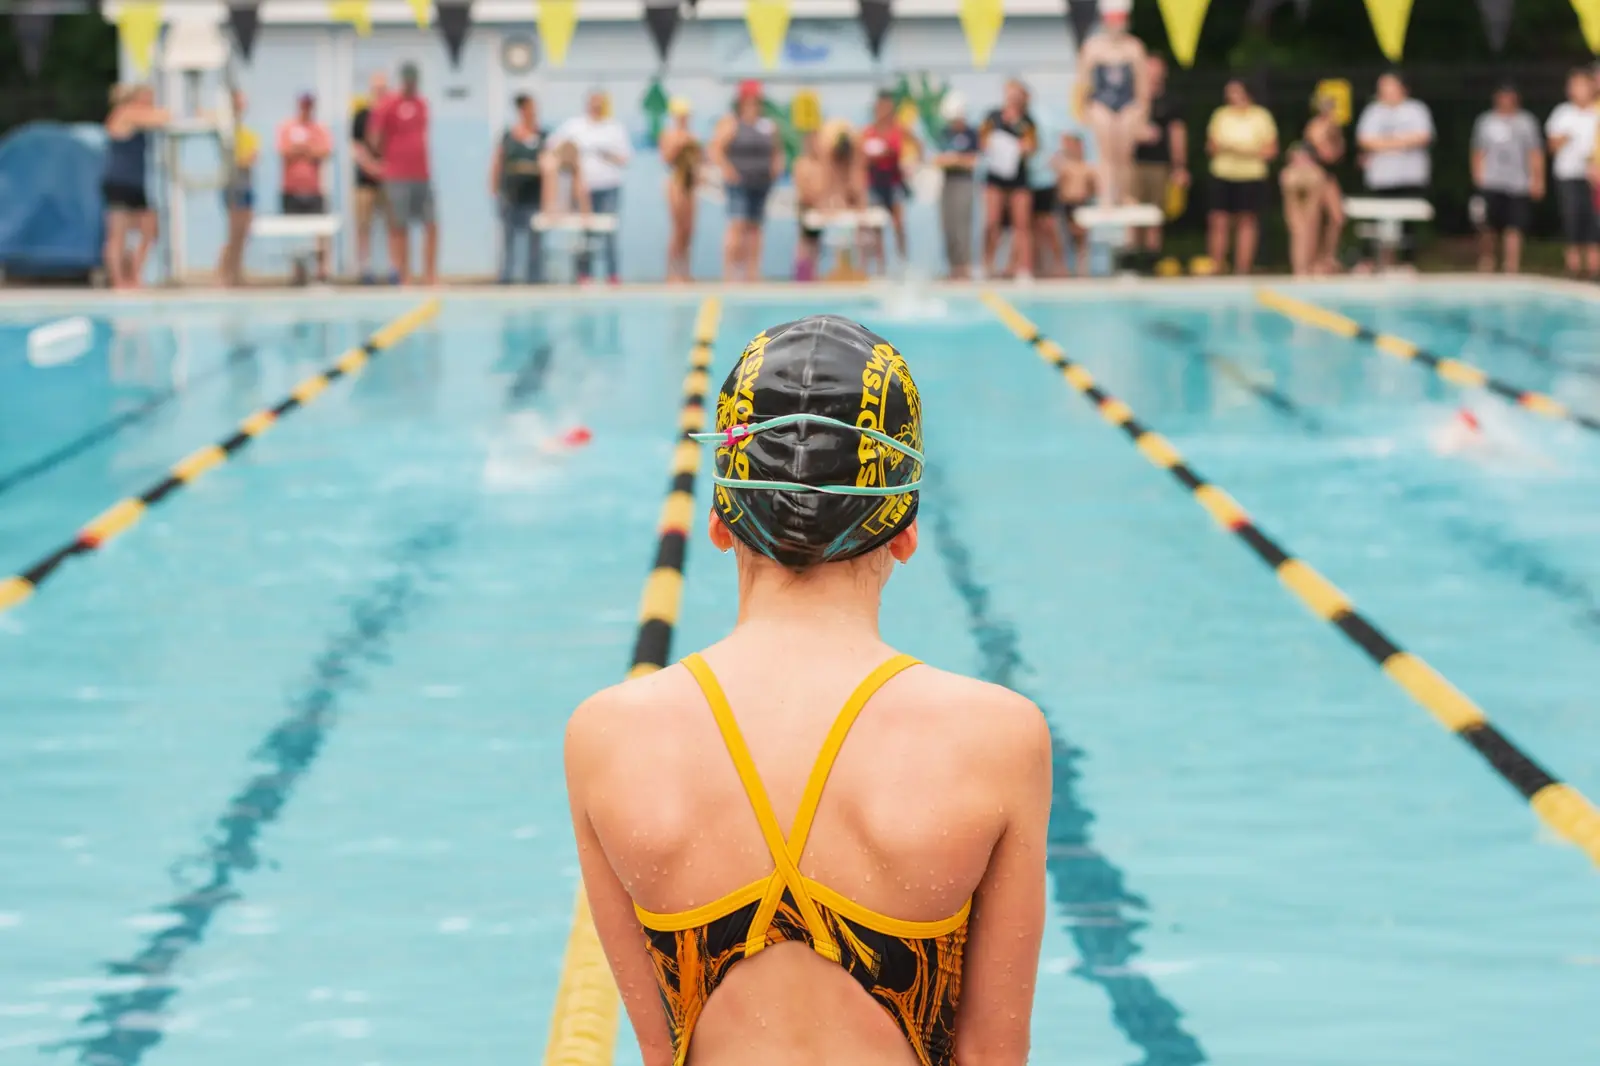
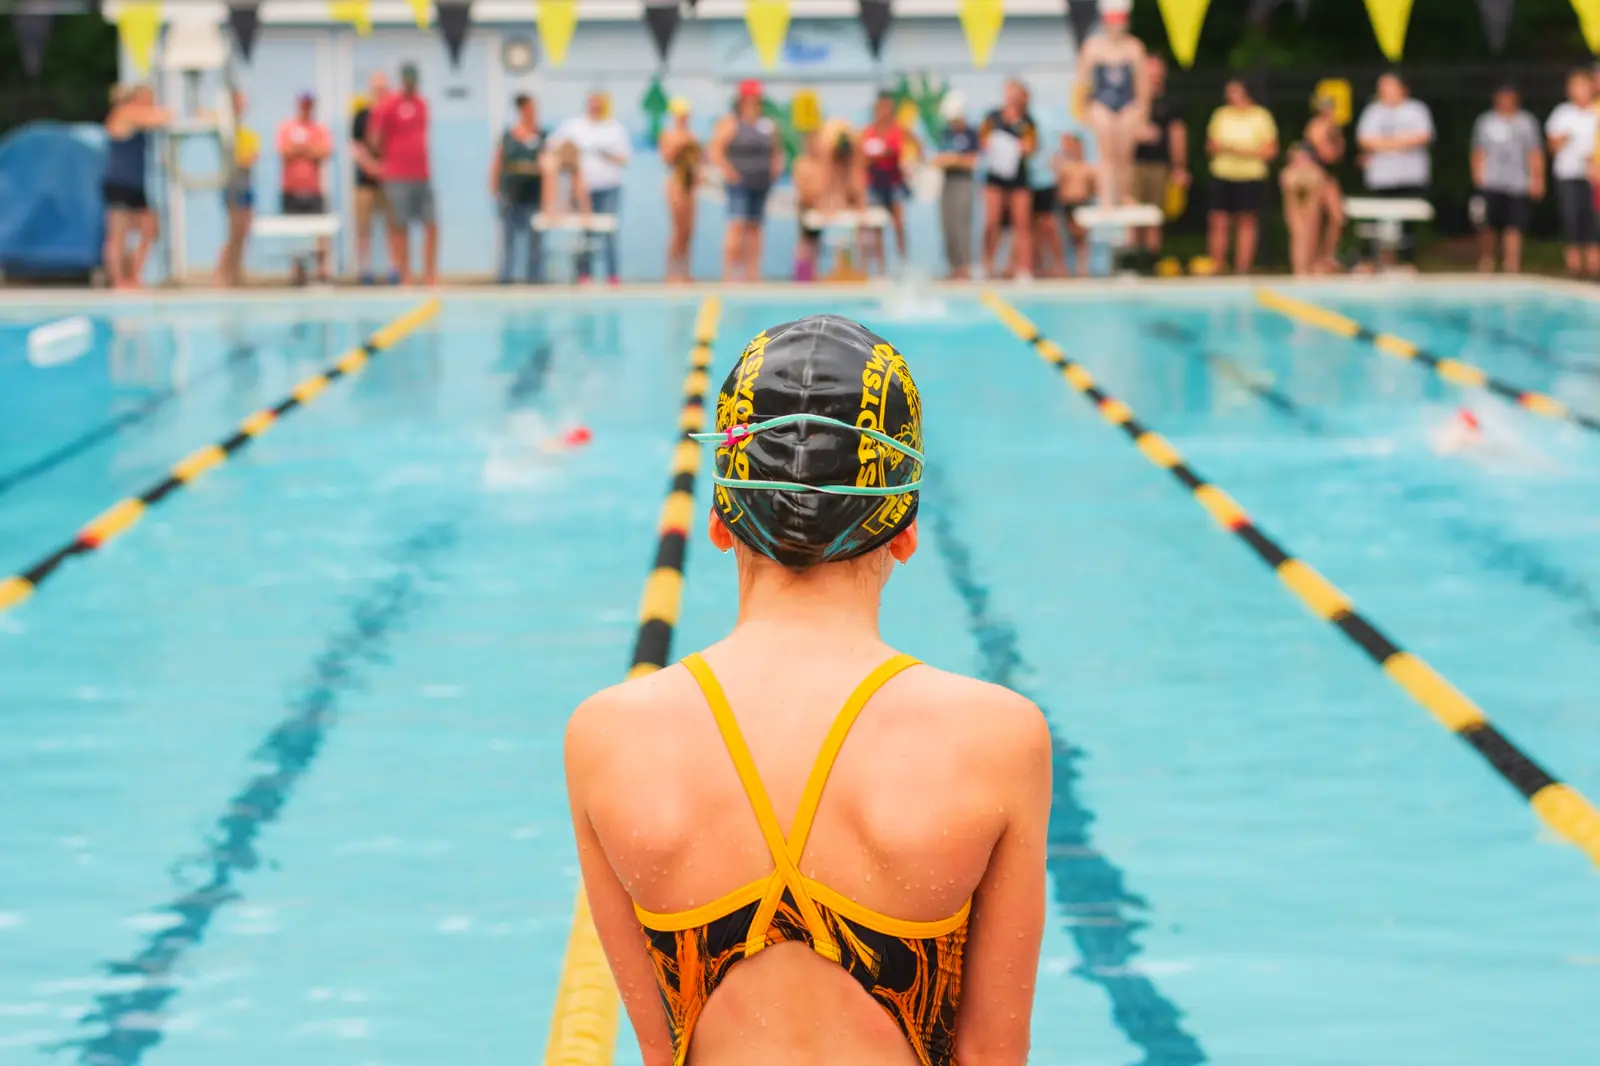
Homepage photo: 30% more color
The photo files themselves are brighter (saturation up 30%), so nothing
is adjusted in the browser and the files stay small. The image links
carry ?v=2 so browsers fetch the new copies.

Claude-Session: https://claude.ai/code/session_0196pyFaoFByCeDDxVVjQCGu

diff --git a/index.html b/index.html
@@ -72,8 +72,8 @@
 <main class="wrap">
     <section class="hero">
         <picture>
-            <source type="image/webp" srcset="/assets/hero-800.webp 800w, /assets/hero-1600.webp 1600w" sizes="(max-width: 1180px) 100vw, 1132px">
-            <img src="/assets/hero-1600.jpg" srcset="/assets/hero-800.jpg 800w, /assets/hero-1600.jpg 1600w" sizes="(max-width: 1180px) 100vw, 1132px" width="1600" height="1066" fetchpriority="high" alt="A Sea Serpents swimmer in a team cap waits behind the lanes at a home meet">
+            <source type="image/webp" srcset="/assets/hero-800.webp?v=2 800w, /assets/hero-1600.webp?v=2 1600w" sizes="(max-width: 1180px) 100vw, 1132px">
+            <img src="/assets/hero-1600.jpg?v=2" srcset="/assets/hero-800.jpg?v=2 800w, /assets/hero-1600.jpg?v=2 1600w" sizes="(max-width: 1180px) 100vw, 1132px" width="1600" height="1066" fetchpriority="high" alt="A Sea Serpents swimmer in a team cap waits behind the lanes at a home meet">
         </picture>
         <div class="hero-text">
             <h1>Sea Serpents</h1>

diff --git a/CLAUDE.md b/CLAUDE.md
@@ -24,7 +24,7 @@ Website for the Spotswood Sea Serpents summer swim team: homepage with meet card
 - Confirmations (delete a meet, remove or reject a photo) use the site's own dialog, never the browser's `confirm()` or `alert()`.
 - Page content lines up with the header's logo: every page uses the same `.wrap` container, and a page with narrower content (Stats, Schedule, Admin) keeps that width on the left rather than centering it.
 - Focus ring: 3px gold. Target WCAG AA contrast.
-- Homepage photo (2026-10-20, option B): a team photo across the top in a rounded card inside the page width, with "Sea Serpents" (shortened from "Go Sea Serpents!", the user's choice, 2026-10-20), the intro line, and Schedule / Swimmer stats buttons over a dark fade at its bottom; phones show "Spotswood summer swim team" in small capitals just below the heading instead of the intro line, so the heading clears the swimmer (2026-10-20). Served from assets/hero-800 and hero-1600 (WebP with a JPEG fallback, resized and stripped of metadata).
+- Homepage photo (2026-10-20, option B): a team photo across the top in a rounded card inside the page width, with "Sea Serpents" (shortened from "Go Sea Serpents!", the user's choice, 2026-10-20), the intro line, and Schedule / Swimmer stats buttons over a dark fade at its bottom; phones show "Spotswood summer swim team" in small capitals just below the heading instead of the intro line, so the heading clears the swimmer (2026-10-20). Served from assets/hero-800 and hero-1600 (WebP with a JPEG fallback, resized, stripped of metadata, and saturation raised 30% at the user's choice, 2026-10-20).
 
 ## Content rules
 - "vs." means home and "at" means away. Titles use the short name ("vs. Massad"); score rows use the full name ("Curtis Park Seahawks 511").
